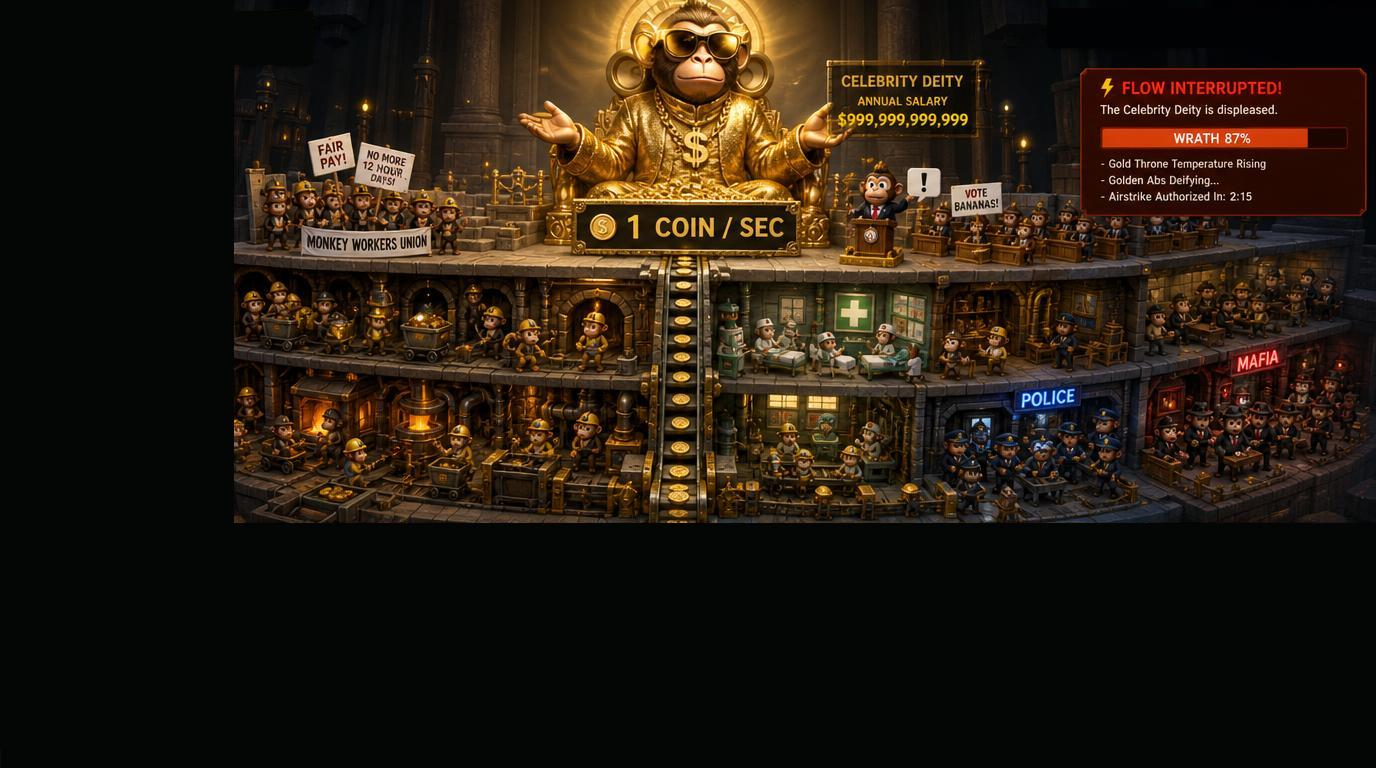
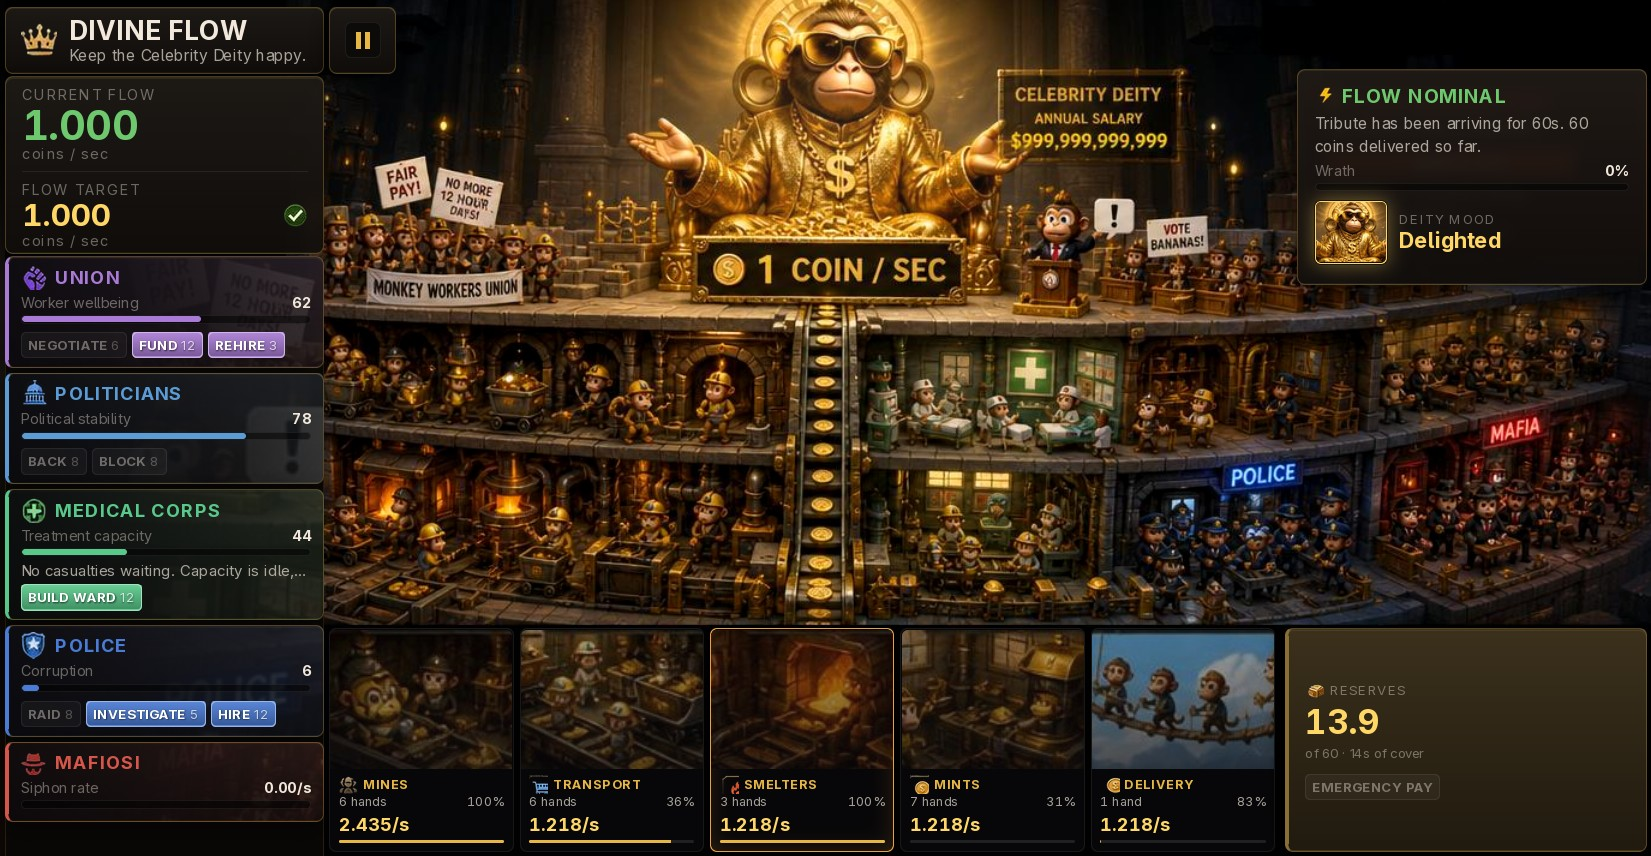
.

diff --git a/README.md b/README.md
@@ -6,7 +6,7 @@ astronomically-paid celebrity. The player's job is to keep that
 number steady against strikes, breakdowns, mafia sabotage, political
 upheaval, and the Deity's inevitable wrath when the flow stops.
 
-<!--img src="https://raw.githubusercontent.com/mdesalvo/GoldChain/master/art-source/GoldChain.jpg" alt="The concept art the whole UI is built from" width="100%" /-->
+<img src="https://raw.githubusercontent.com/mdesalvo/GoldChain/master/art-source/GoldChain.jpg" alt="The concept art the whole UI is built from" width="100%" />
 
 ## Production chain
 
